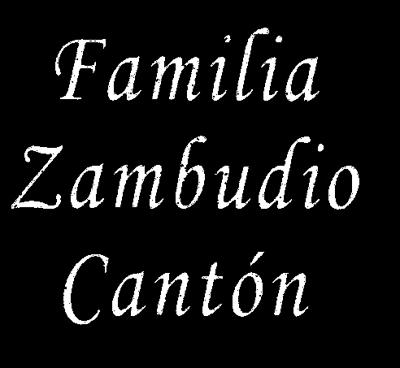
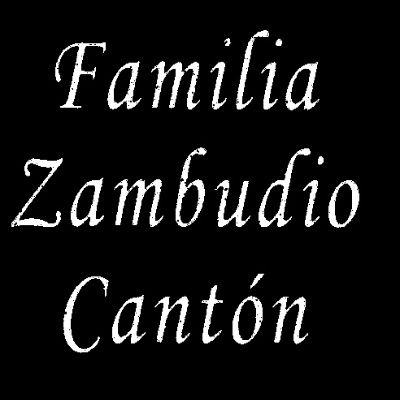
44

diff --git a/comparar.py b/comparar.py
@@ -47,41 +47,70 @@ mask1 = cv2.inRange(im, (0, 0, 0), (10, 10,10))
 cv2.imwrite("Image3.jpg", mask1)
 
 
-# Para invertir el color
-im = cv2.imread("C:\ProyectOCR\Data\letras.jpg")
-invertida = cv2.bitwise_not(im)
-cv2.imwrite("letrasMalas.jpg", invertida)
+color = "BLANCO"
 
-image = Image.open("letrasMalas.jpg")
-image.thumbnail((400, 400))
-image.save('letrasProg.jpg')
+if color == "BLANCO" or color == "GRIS SIERRA":
+    # Para invertir el color
+    im = cv2.imread("C:\ProyectOCR\Data\letras.jpg")
+    invertida = cv2.bitwise_not(im)
+    cv2.imwrite("letrasComparar.jpg", invertida)
 
-image = Image.open("Image2.jpg")
-image.thumbnail((400, 400))
-image.save('letrasBuenas.jpg')
+    img = cv2.imread("letrasComparar.jpg", cv2.IMREAD_UNCHANGED)
+    resized = cv2.resize(img, (400,400))
+    cv2.imwrite('letrasProg.jpg', resized)
 
-image = Image.open("Image3.jpg")
-image.thumbnail((400, 400))
-image.save('letrasFalsas.jpg')
 
+    img = cv2.imread("Image2.jpg", cv2.IMREAD_UNCHANGED)
+    resized = cv2.resize(img, (400,400))
+    cv2.imwrite('letrasBuenas.jpg', resized)
+
+
+    img = cv2.imread("Image3.jpg", cv2.IMREAD_UNCHANGED)
+    resized = cv2.resize(img, (400,400))
+    cv2.imwrite('letrasFalsas.jpg', resized)
+'''
+    image = Image.open("letrasComparar.jpg")
+    image.thumbnail((400, 400))
+    image.save('letrasProg.jpg')
+
+    image = Image.open("Image2.jpg")
+    image.thumbnail((400, 400))
+    image.save('letrasBuenas.jpg')
+
+    image = Image.open("Image3.jpg")
+    image.thumbnail((400, 400))
+    image.save('letrasFalsas.jpg')
+
+'''
+
+
+
+
+#Leer pixeles
 image = cv2.imread("letrasProg.jpg", 0)
-number_of_white_pix = np.sum(image >= 1)
+if np.sum(image) != None:
+    number_of_white_pix = np.sum(image >= 1)
 number_of_black_pix = np.sum(image == 0)
 print("Letras programa")
 print('Number of white pixels:', number_of_white_pix)
 print('Number of black pixels:', number_of_black_pix)
+number_of_white_pix = 0
 
 
 image = cv2.imread("letrasBuenas.jpg", 0)
-number_of_white_pix = np.sum(image >= 1)
+if np.sum(image) != None:
+    number_of_white_pix = np.sum(image >= 1)
+
 number_of_black_pix = np.sum(image == 0)
 print("Letras de verdad")
 print('Number of white pixels:', number_of_white_pix)
 print('Number of black pixels:', number_of_black_pix)
+number_of_white_pix = 0
 
 
-image = cv2.imread("letrasBuenas.jpg", 0)
-number_of_white_pix = np.sum(image >= 1)
+image = cv2.imread("letrasFalsas.jpg", 0)
+if np.sum(image) != None:
+    number_of_white_pix = np.sum(image >= 1)
 number_of_black_pix = np.sum(image == 0)
 print("Letras falsas")
 print('Number of white pixels:', number_of_white_pix)
